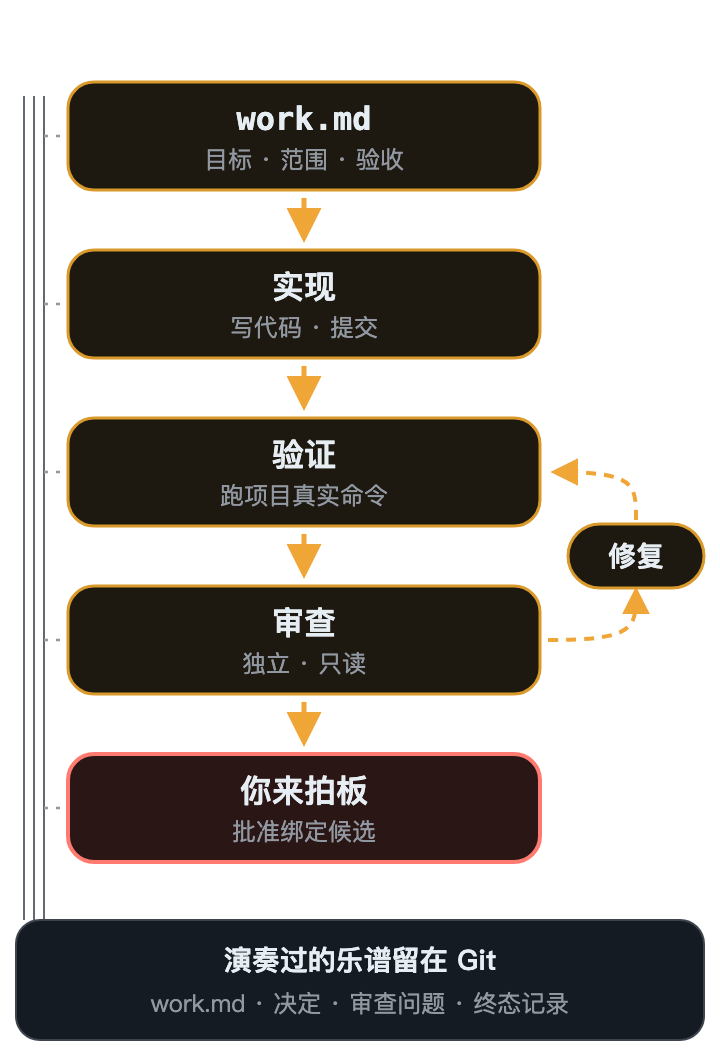
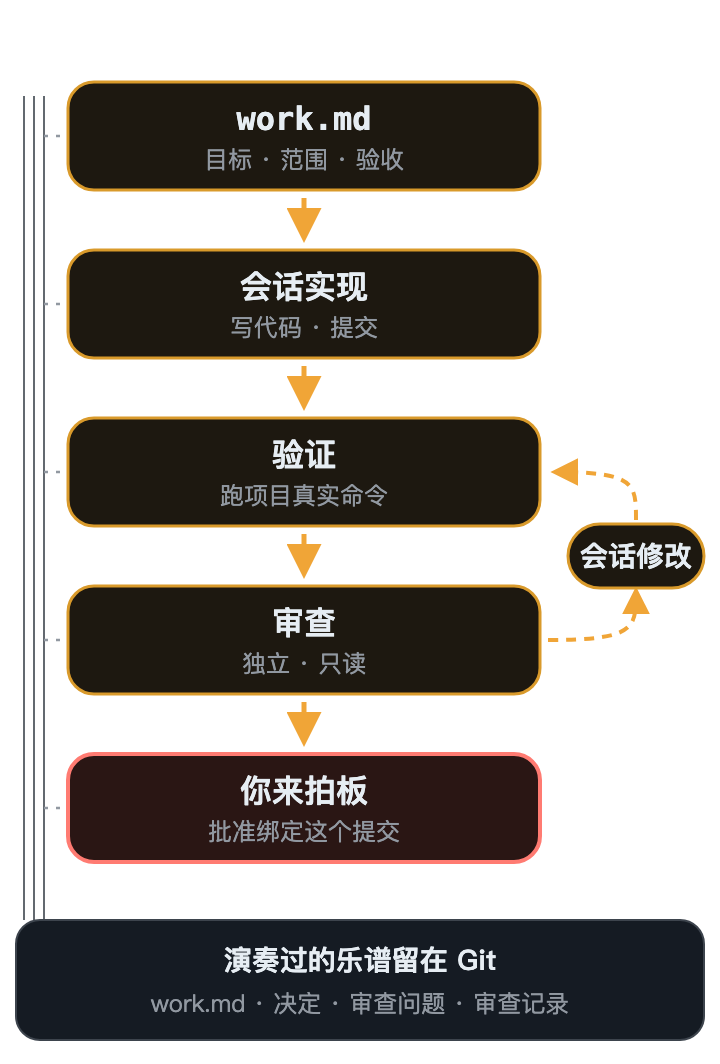
docs(readme): the loop diagram shows the session writing and revising; approval is bound to the commit
Work: WORK-README-DIAGRAMS

diff --git a/README.en.md b/README.en.md
@@ -1,5 +1,5 @@
 <p align="center">
-  <img src="https://raw.githubusercontent.com/HaiYangBG1/BuildBeat/main/docs/assets/readme/hero.jpg" width="100%" alt="Five notes on a musical staff, build, verify, review, fix and decide, joined by a pulse line that ends in a stack of written sheet music">
+  <img src="https://raw.githubusercontent.com/HaiYangBG1/BuildBeat/main/docs/assets/readme/hero.jpg" width="100%" alt="Five notes on a musical staff, build, verify, review, revise and decide, joined by a pulse line that ends in a stack of written sheet music">
 </p>
 
 <h1 align="center">BuildBeat</h1>
@@ -45,7 +45,7 @@ Long sessions make the AI forget; open a new session or switch tools and you exp
   <source media="(max-width: 600px) and (prefers-color-scheme: dark)" srcset="https://raw.githubusercontent.com/HaiYangBG1/BuildBeat/main/docs/assets/readme/handoff-en-dark-narrow.png">
   <source media="(max-width: 600px)" srcset="https://raw.githubusercontent.com/HaiYangBG1/BuildBeat/main/docs/assets/readme/handoff-en-light-narrow.png">
   <source media="(prefers-color-scheme: dark)" srcset="https://raw.githubusercontent.com/HaiYangBG1/BuildBeat/main/docs/assets/readme/handoff-en-dark.png">
-  <img src="https://raw.githubusercontent.com/HaiYangBG1/BuildBeat/main/docs/assets/readme/handoff-en-light.png" width="100%" alt="Session A (Claude Code), halfway there, writes the checkpoint into project files (work.md, decisions, each run); session B (Codex) reads those files and carries on; picked up weeks later, a heads-up says src/export.js:5-8, mentioned in work.md, has changed">
+  <img src="https://raw.githubusercontent.com/HaiYangBG1/BuildBeat/main/docs/assets/readme/handoff-en-light.png" width="100%" alt="Session A (Claude Code), halfway there, writes the checkpoint into project files (work.md, decisions, each review); session B (Codex) reads those files and carries on; picked up weeks later, a heads-up says src/export.js:5-8, mentioned in work.md, has changed">
 </picture>
 
 </td>
@@ -83,7 +83,7 @@ Everyone knows requirement docs and decision logs should be written, but nobody 
   <source media="(max-width: 600px) and (prefers-color-scheme: dark)" srcset="https://raw.githubusercontent.com/HaiYangBG1/BuildBeat/main/docs/assets/readme/loop-en-dark-narrow.png">
   <source media="(max-width: 600px)" srcset="https://raw.githubusercontent.com/HaiYangBG1/BuildBeat/main/docs/assets/readme/loop-en-light-narrow.png">
   <source media="(prefers-color-scheme: dark)" srcset="https://raw.githubusercontent.com/HaiYangBG1/BuildBeat/main/docs/assets/readme/loop-en-dark.png">
-  <img src="https://raw.githubusercontent.com/HaiYangBG1/BuildBeat/main/docs/assets/readme/loop-en-light.png" width="100%" alt="The delivery loop: after work.md come build, verify and review; findings go to fix, verify and review again; then the run stops for you to decide; work.md, decisions, findings and each run's final record stay in Git">
+  <img src="https://raw.githubusercontent.com/HaiYangBG1/BuildBeat/main/docs/assets/readme/loop-en-light.png" width="100%" alt="After work.md the session writes the code and commits, then come verify and review; when the review finds something, the session fixes it and sends the new commit; then it stops for you to decide, and the approval is bound to that commit; work.md, decisions, findings and each review's record stay in Git">
 </picture>
 
 </td>
